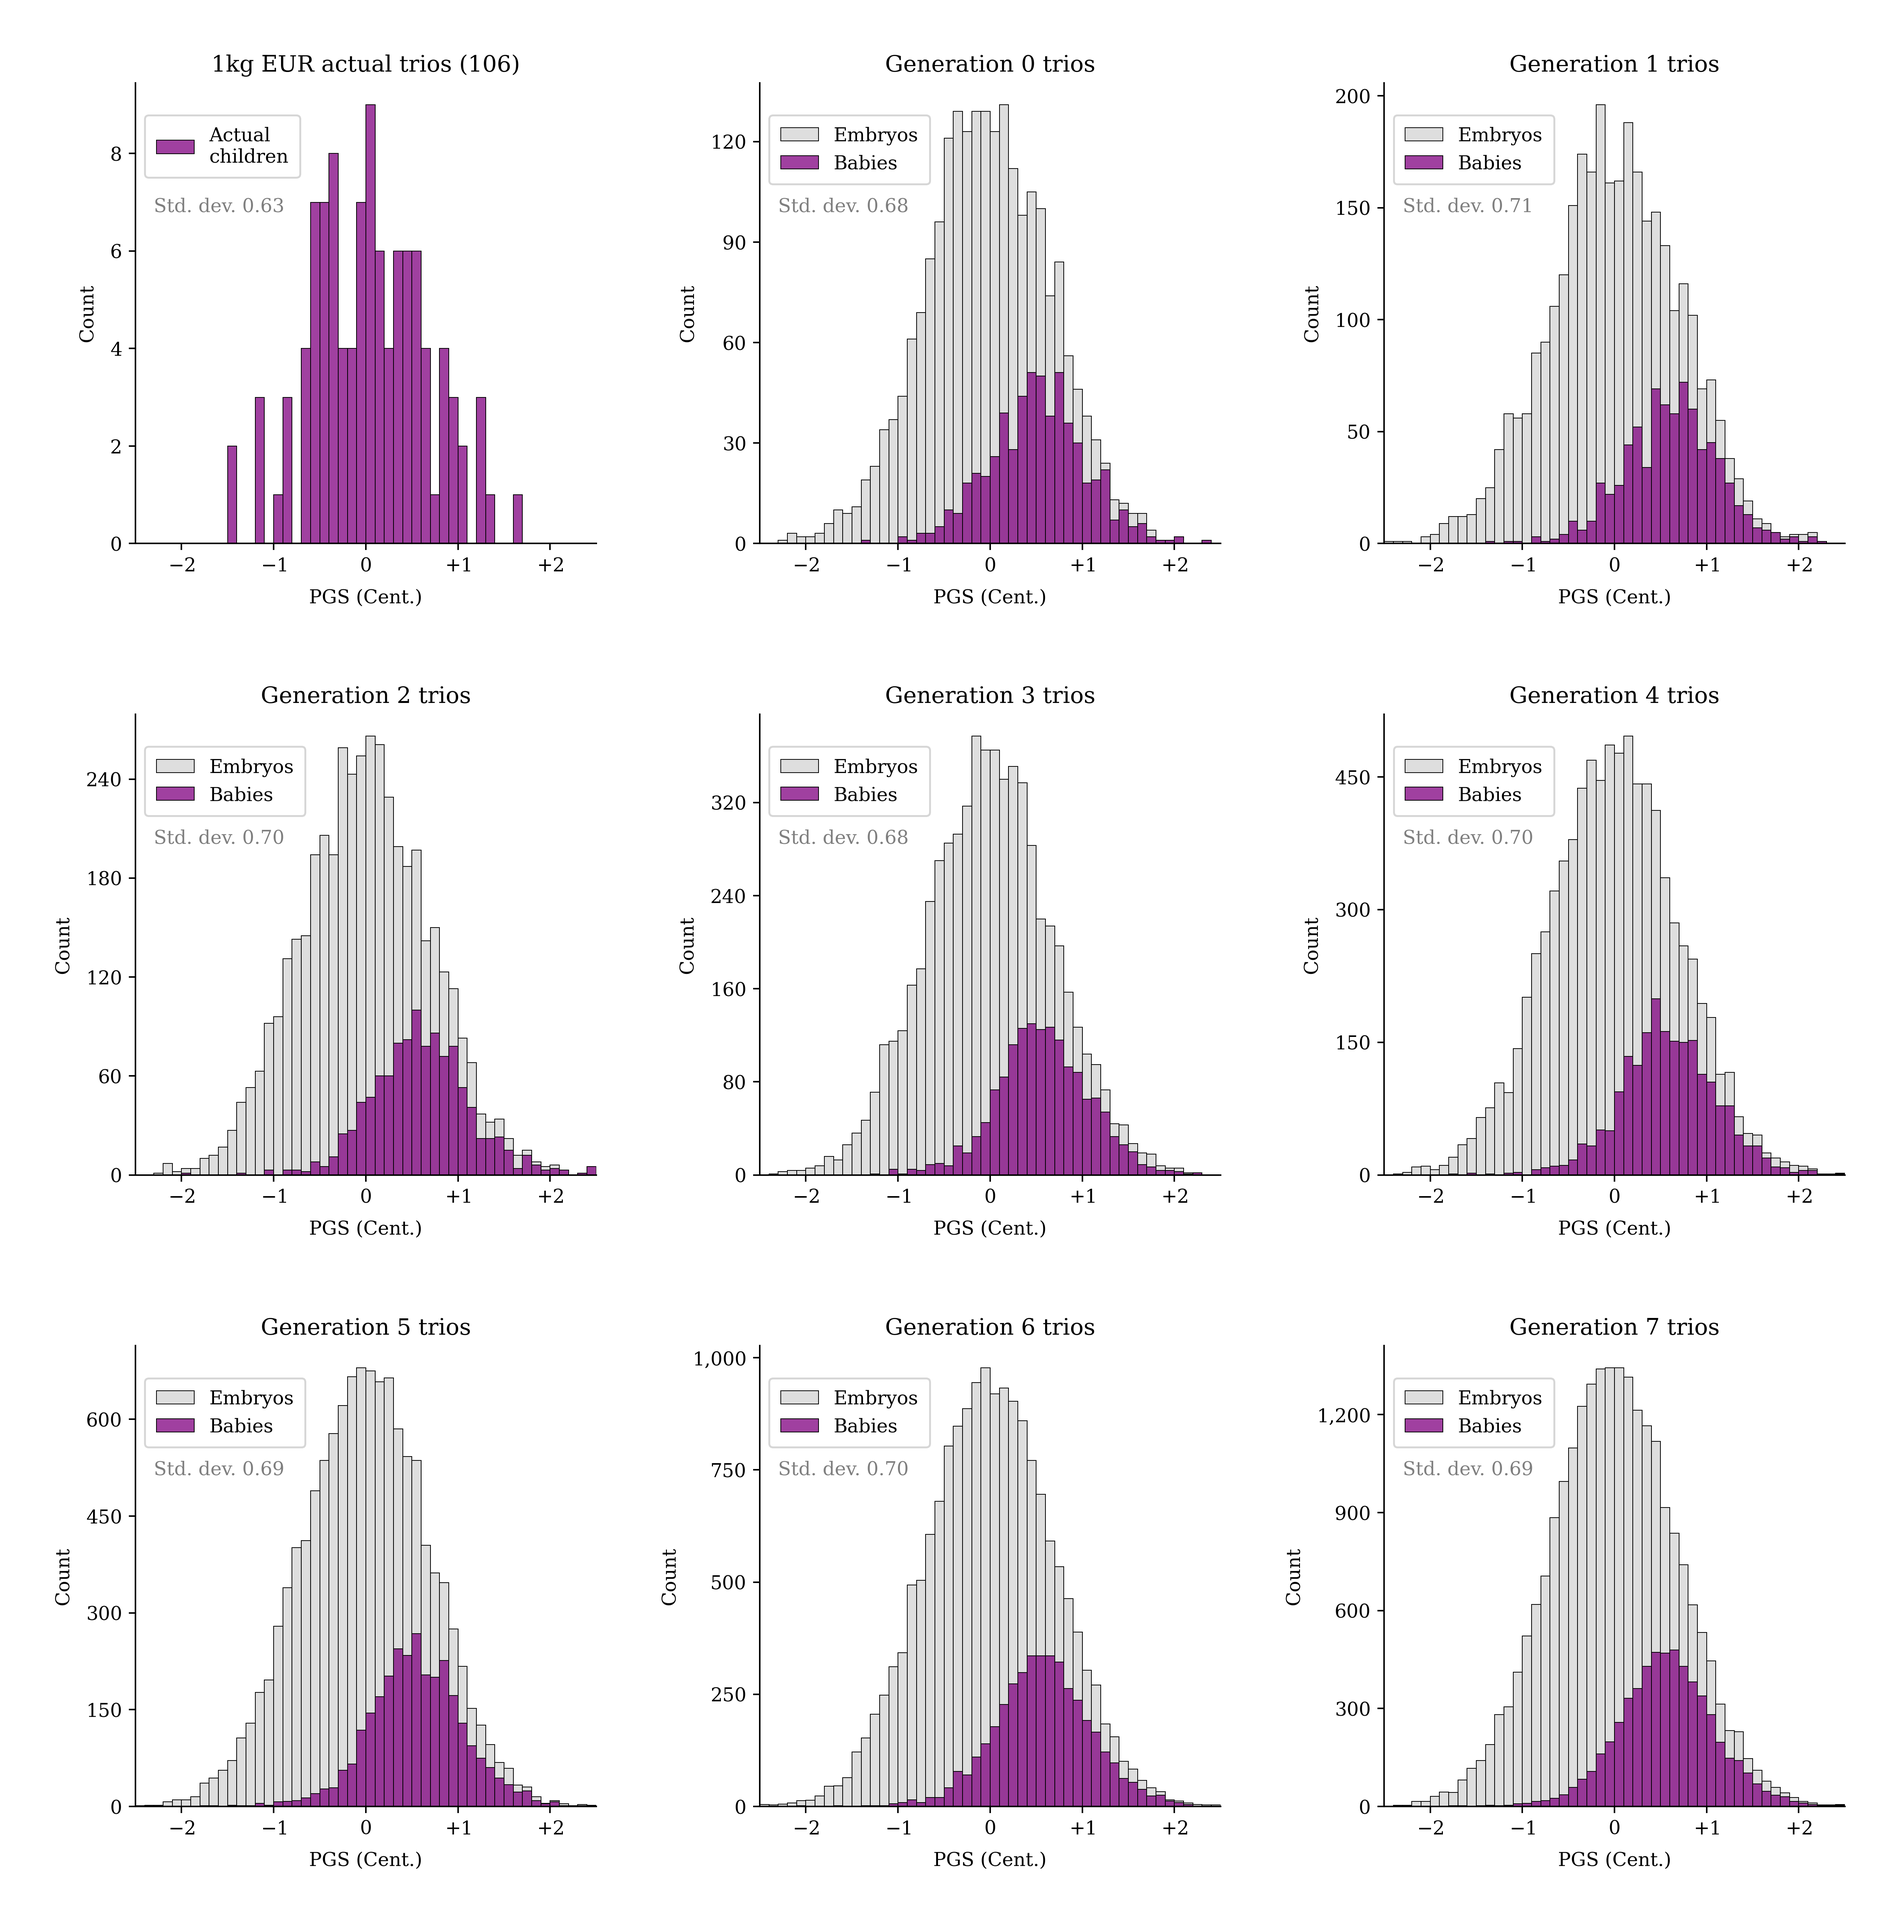
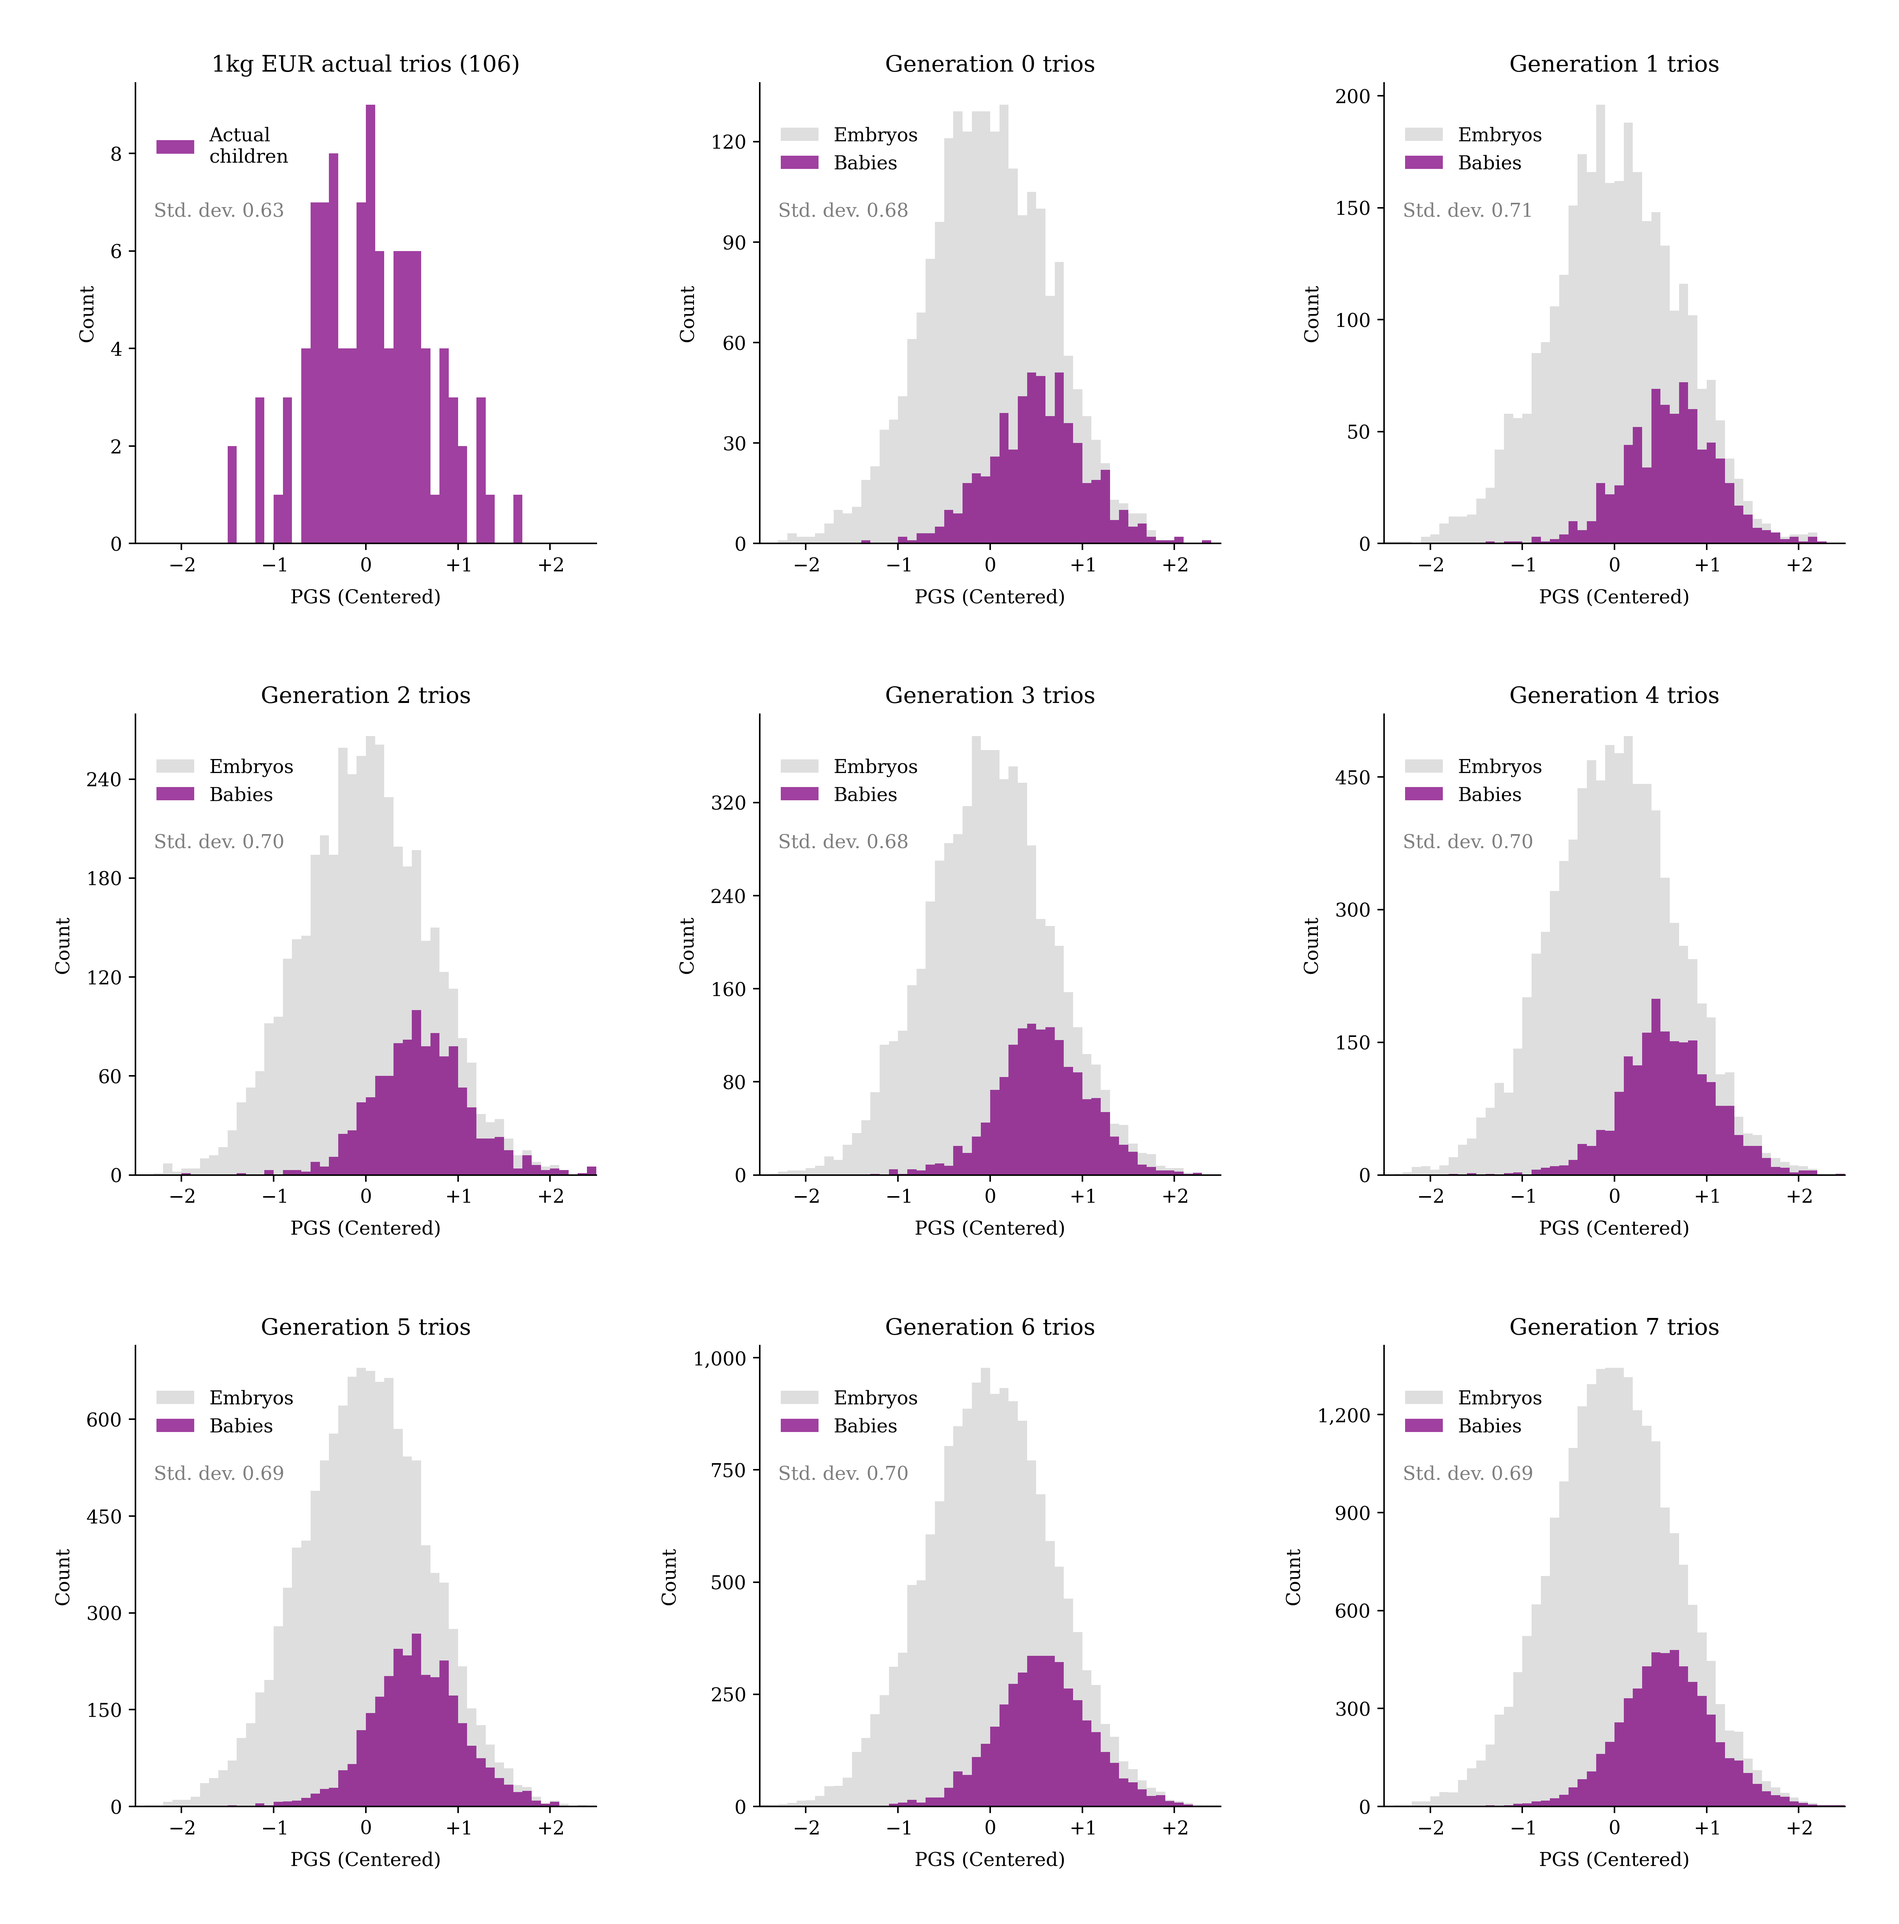
get descendants

diff --git a/paul.py b/paul.py
@@ -627,4 +627,130 @@ def load_freq_vs_weight():
 
 
 
+def get_gamete_ancestry_chunks(parent_ancestry, parent_meiosis):
+        
+    gamete_ancestry_chunks = []
+
+    for chrom in iterate_autosomes():
+        ancestry_chunks = parent_ancestry[parent_ancestry.chrom == chrom]
+        gamete_chunks = parent_meiosis[parent_meiosis.chrom == chrom]
+
+        for _, gamete_chunk in gamete_chunks.iterrows():
+            parental_chrom = "paternal" if gamete_chunk.grandparent == "Grandpa" else "maternal"
+            overlapping_ancestry_chunks = ancestry_chunks[
+                                            (ancestry_chunks.member == parental_chrom) & 
+                                            (ancestry_chunks.pos_start <= gamete_chunk.pos_end) & 
+                                            (ancestry_chunks.pos_end >= gamete_chunk.pos_start)
+                                            ]
+            for _, ancestry_chunk in overlapping_ancestry_chunks.iterrows():
+                gamete_ancestry_chunk = {
+                    "chrom": chrom,
+                    "pos_start": max(ancestry_chunk.pos_start, gamete_chunk.pos_start),
+                    "pos_end": min(ancestry_chunk.pos_end, gamete_chunk.pos_end),
+                    "ancestor": ancestry_chunk.ancestor,
+                    "ancestor_member": ancestry_chunk.ancestor_member,
+                }
+                gamete_ancestry_chunks.append(gamete_ancestry_chunk)
+            
+    return pd.DataFrame(gamete_ancestry_chunks)
+
+
+def save_ancestry_chunks():
+        
+    di = load_intergenerational_scores() 
+    dm = load_meioses()
+
+    # Initialize the ancestry datafram
+    generation = 0
+    data = []
+    for name in load_generation_names(generation):
+        
+        for chrom in iterate_autosomes():
+            
+            ancestor = name
+
+            for member in ["paternal", "maternal"]:
+
+                entry = {
+                    "generation": generation, 
+                    "name": name,
+                    "chrom": chrom,
+                    "pos_start": 0,
+                    "pos_end": CHROMOSOME_LENGTHS[str(chrom)],
+                    "member": member,
+                    "ancestor": ancestor,
+                    "ancestor_member": member,
+                }
+
+                data.append(entry)
+
+    dfa = pd.DataFrame(data)
+
+    for generation in range(1, N_GENERATIONS + 1):
+
+        print(f"Generation {generation}")
+
+        dc = load_couples(generation-1)
+
+        names = load_generation_names(generation)
+
+        data_generation = []
+        for name in tqdm(names):
+                
+            # Get the genesis of the person 
+            genesis = di[(di.generation == generation-1) & (di.name == name)].squeeze()
+
+            # Get the dad and mom of the person
+            dad, mom = genesis.dad, genesis.mom
+
+            # Get the meiosis numbers of the dad and mom
+            sperm_meiosis_num, egg_meiosis_num = genesis.sperm_meiosis_num, genesis.egg_meiosis_num
+
+            # Double check that the dad and mom were a couple in the previous generation
+            couple = dc[(dc.name_dad == dad) & (dc.name_mom == mom)].squeeze()
+            assert not couple.empty
+
+            # Get Dad's ancestry
+            dad_ancestry = dfa[(dfa.generation == generation-1) & (dfa.name == dad)]
+
+            # Get Dad's meiosis (his sperm)
+            sperm_meiosis = dm[(dm.meiosis_num == sperm_meiosis_num) & (dm.parent == "Dad")]
+
+            # Get Mom's ancestry
+            mom_ancestry = dfa[(dfa.generation == generation-1) & (dfa.name == mom)]
+
+            # Get Mom's meiosis (her egg)
+            egg_meiosis = dm[(dm.meiosis_num == egg_meiosis_num) & (dm.parent == "Mom")]
+
+            # Get the gamete ancestry chunks
+            sperm_ancestry_chunks = get_gamete_ancestry_chunks(dad_ancestry, sperm_meiosis)
+            egg_ancestry_chunks = get_gamete_ancestry_chunks(mom_ancestry, egg_meiosis)
+            
+            sperm_ancestry_chunks['member'] = "paternal"
+            egg_ancestry_chunks['member'] = "maternal"
+
+            dfa_person = pd.concat([sperm_ancestry_chunks, egg_ancestry_chunks])
+            dfa_person['name'] = name
+
+            data_generation.append(dfa_person)
+
+        dfa_generation = pd.concat(data_generation)
+        dfa_generation['generation'] = generation
+        dfa = pd.concat([dfa, dfa_generation])
+
+    save_df(dfa, "ancestry")
+
+
+def load_ancestry(generation=None):
+    dfa = load_df("ancestry")
+    if generation is not None:
+        dfa = dfa[dfa.generation == generation]
+    return dfa
+
+
+
+
+
+
+
 

diff --git a/plotting.py b/plotting.py
@@ -243,22 +243,25 @@ def plot_embryo_dists():
         binwidth = 0.1
         color_main = 'lightgrey' if generation >= 0 else 'purple'
         sns.histplot(scores_embryos, ax=ax, color=color_main, 
-                     stat='count',
+                     stat='count', 
+                     edgecolor=None,
                      binrange=binrange, binwidth=binwidth)
 
-        legend_options = {"borderpad": 0.6, "bbox_to_anchor": (0, 0.95), "loc": "upper left"}
+        legend_options = {"borderpad": 0.6, "bbox_to_anchor": (0, 0.95), 
+                          "loc": "upper left", "frameon": False}
         if generation == -1:
             ax.legend(["Actual\nchildren"], **legend_options)
         else:
             scores_babies = di[(di.generation == generation) & (di.selected)].embryo_score_normalized / scale
             sns.histplot(scores_babies, ax=ax, color="purple", 
                          stat='count',
+                         edgecolor=None,
                          binrange=binrange, binwidth=binwidth)
             ax.legend(["Embryos", "Babies"], **legend_options)
 
         # X axis
         ax.set_xlim(binrange)
-        ax.set_xlabel("PGS (Cent.)")
+        ax.set_xlabel("PGS (Centered)")
         ax.sign_xscale()
 
         # Y axis
@@ -270,8 +273,8 @@ def plot_embryo_dists():
         ax.remove_top_right_spines()
         ax.set_title(_get_title(generation))
 
-        ax.text(0.04, 0.72, s=f"Std. dev. {scores_embryos.std():.2f}",
-                transform=ax.transAxes,
+        ax.text(0.04, 0.71, s=f"Std. dev. {scores_embryos.std():.2f}",
+                transform=ax.transAxes, 
                 fontsize=10, color="black", alpha=0.5)
 
     save_fig(fig, "embryo_dists", pad_inches=0.4, h_pad=4)
